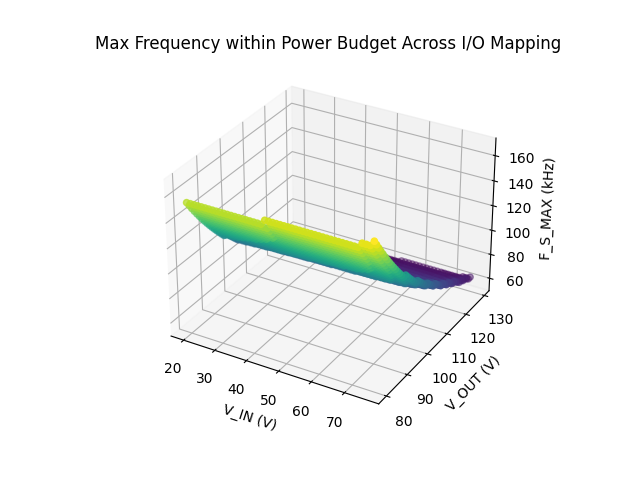
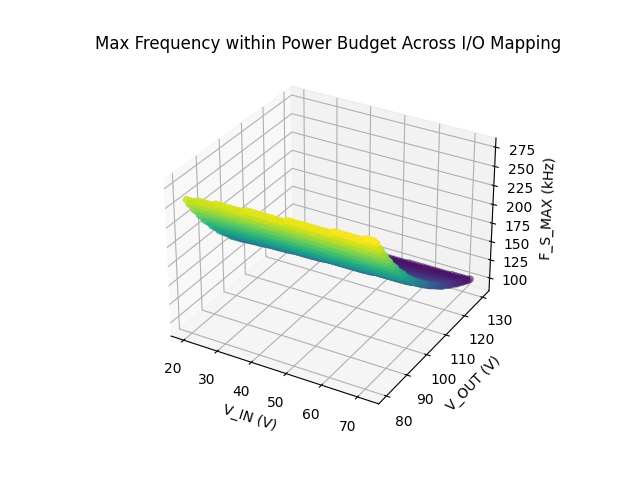
commit last run of sw

diff --git a/sw/design.py b/sw/design.py
@@ -96,22 +96,22 @@ if __name__ == "__main__":
     i_mpp = 5.84
     # Note that we get divide by 0 errors should the lower bounds be 0% or 100%
     # of the array voltage. DON'T DO IT!
-    v_in_range = [num_cells * v_oc * 0.25, num_cells * v_oc * 0.95]  # V
+    v_in_range = [num_cells * v_oc * 0.25, num_cells * v_oc * 0.9]  # V
     v_in_opt = num_cells * v_mpp  # V
-    v_out_range = [80, 134.4 * 0.96]  # V
+    v_out_range = [80, 130]  # V
     i_in_range = [0, i_sc]  # A
 
     # And a specified efficiency and ripple
     eff = 0.99
-    r_ci_v = 1  # V
-    r_co_v = 0.1  # V
-    r_l_a = 1.5  # A
+    r_ci_v = 0.1  # V
+    r_co_v = 1  # V
+    r_l_a = 2  # A
     r_ci = r_ci_v / v_in_range[1] / 2
     r_co = r_co_v / v_out_range[1] / 2
     r_l = r_l_a / i_in_range[1] / 2
 
     # Safety Factor. The higher the safety factor, the less likely things break.
-    sf = 1.5
+    sf = 1.33
 
     # Step 0. Print out the specified design parameters.
     print(f"----------------------------------------")
@@ -341,7 +341,7 @@ if __name__ == "__main__":
                 )
                 if loss_tot >= v_in_opt * i_mpp * (1 - eff):
                     break
-                f_s *= 1.025
+                f_s *= 1.01
 
             x_v_in.append(v_in)
             y_v_out.append(v_out)
@@ -396,7 +396,11 @@ if __name__ == "__main__":
     print(f"Minimum C_OUT: {np.max(co_min) * 10**6 :.3f} uF")
     print(f"Minimum L: {np.max(l_min) * 10**6 :.3f} uH")
     print(
-        f"Capacitors and inductors should be rated for {v_out_range[1] * sf :.3f} V and {i_mpp * sf :.3f} A."
+        f"Input capacitor should be rated for {(v_in_range[1] + r_ci_v) * sf :.3f} V."
     )
+    print(
+        f"Output capacitor should be rated for {(v_out_range[1] + r_co_v) * sf :.3f} V."
+    )
+    print(f"Inductor should be rated for {(i_mpp + r_l_a) * sf :.3f} A.")
 
     input("Press any key to end.")
